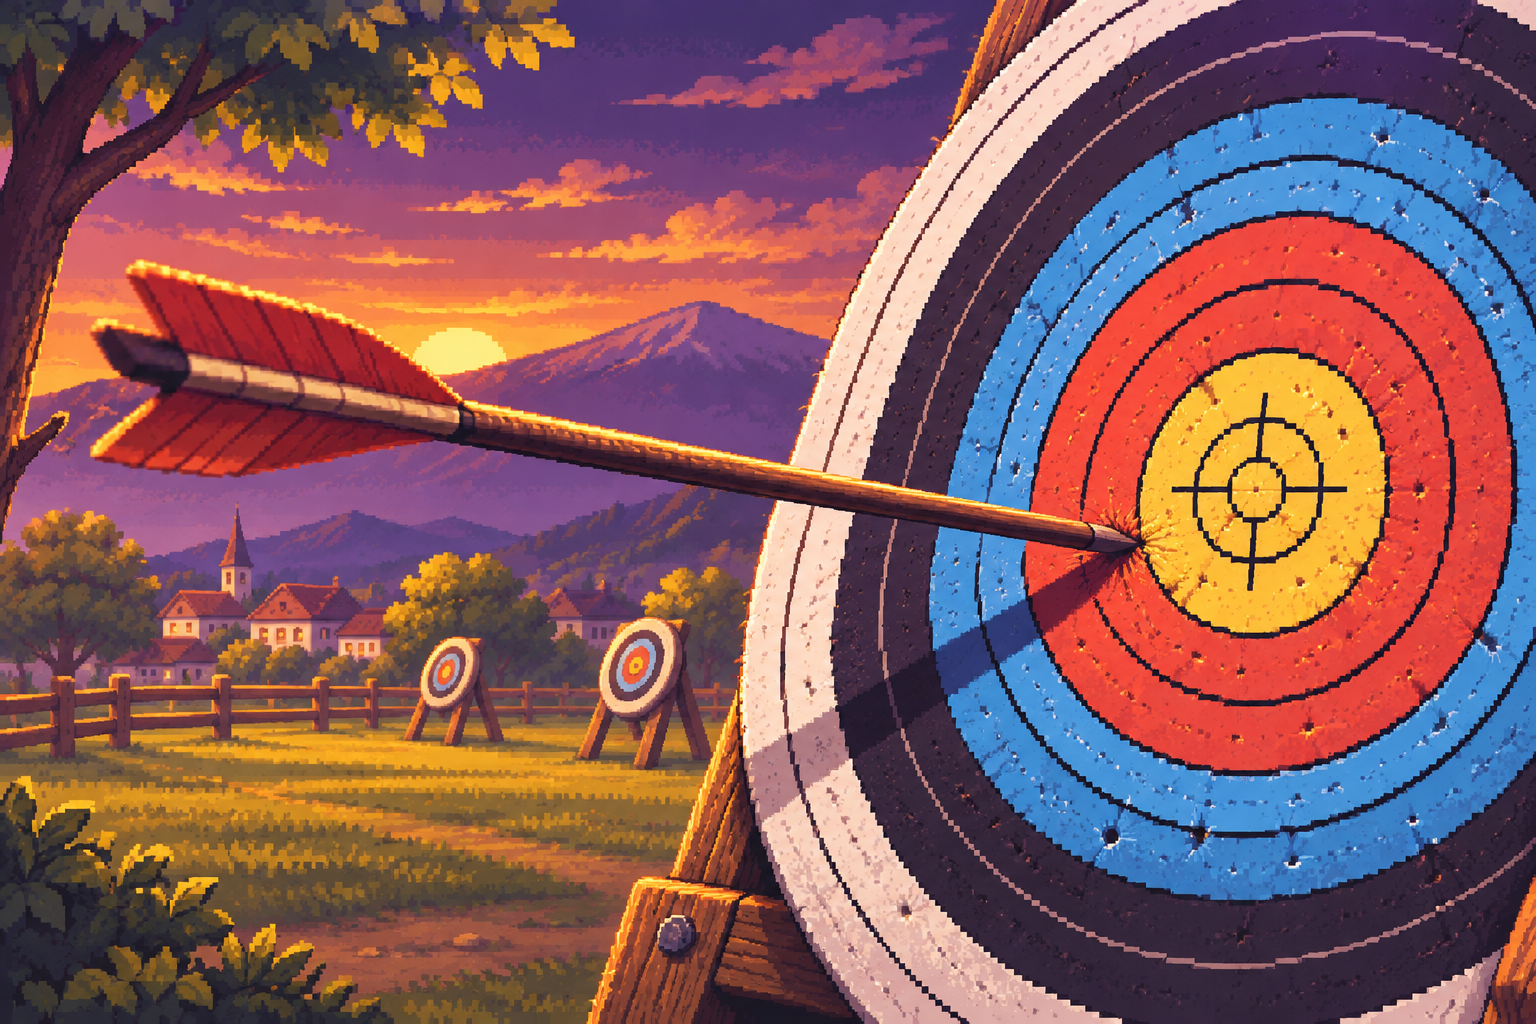
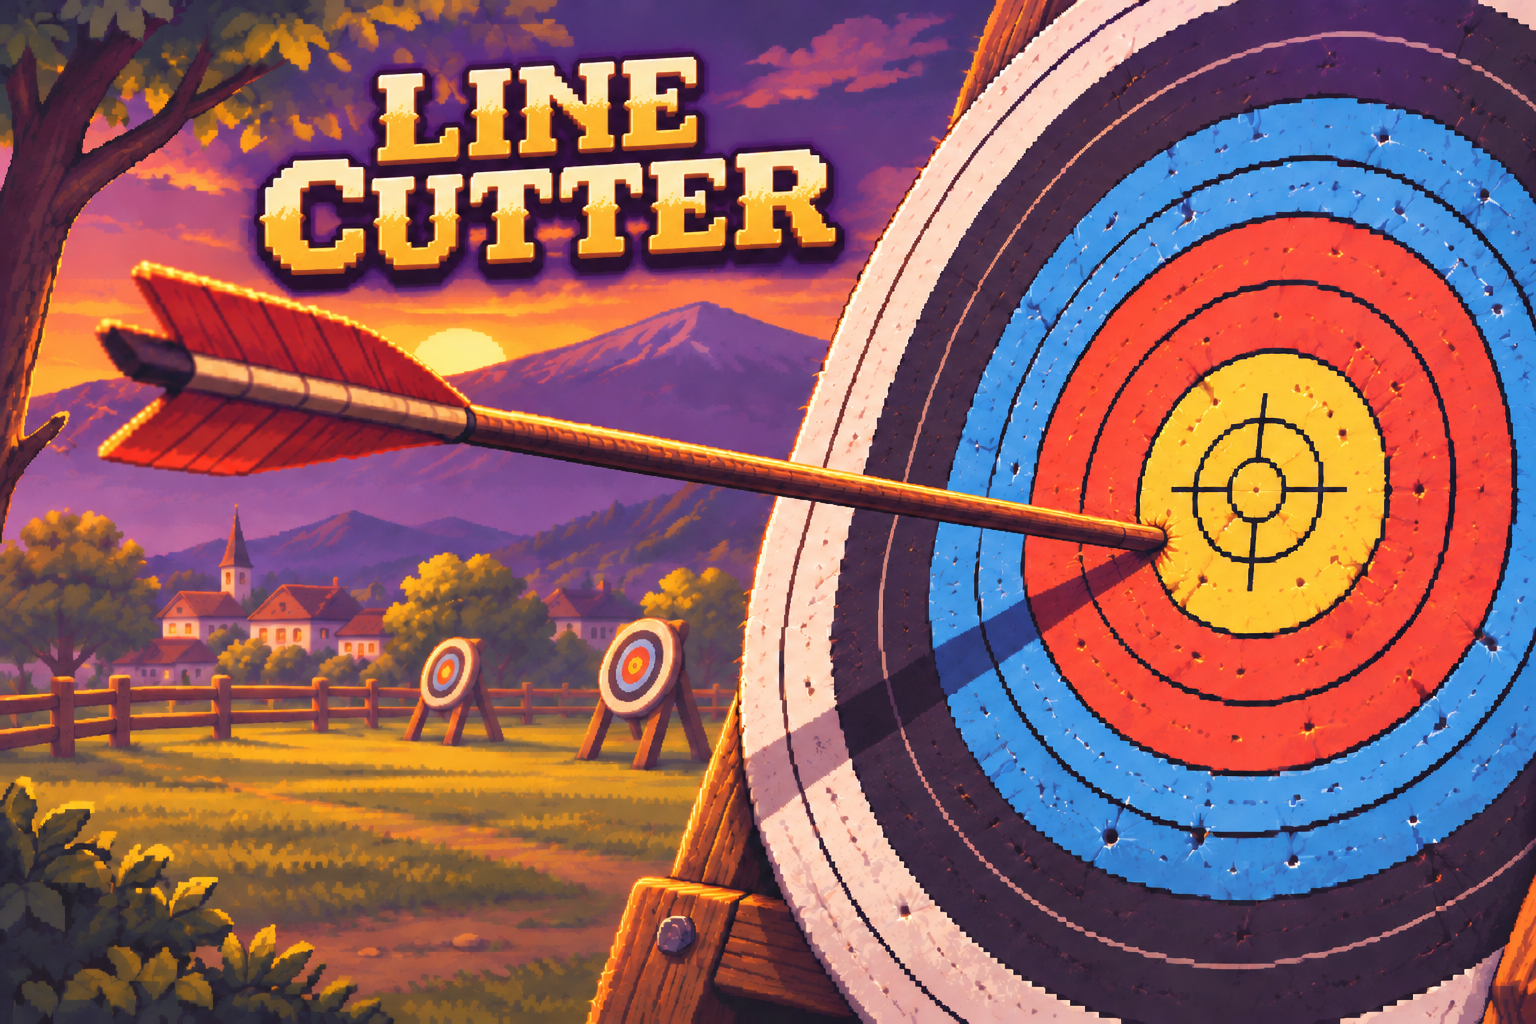
Launch games directly from library and refine Line Cutter cover

diff --git a/examples/line-cutter/play.html b/examples/line-cutter/play.html
@@ -56,7 +56,7 @@ function picker() {
   if (!game) return;
   host.dispose();
   // Returning via navigation releases the game's AudioContext and keeps its localStorage saves.
-  location.href = './index.html';
+  location.href = '/';
 }
 const platform = HandheldPlatform.createPlatform(window.HandheldPlatformOptions);
 host = HandheldSDK.createGameHost({platform, gameId:'line-cutter',

diff --git a/vm.py b/vm.py
@@ -139,8 +139,8 @@ def build_example():
     for source in sorted((HERE / 'runtime/core').iterdir()):
         if source.is_file() and source.suffix in {'.js', '.css'}:
             files['core/' + source.name] = source.read_bytes()
-    metadata = dict(schema_version=1, id='line-cutter', version='0.1.13',
-        runtime='web', entrypoint='index.html', artwork='cover.png',
+    metadata = dict(schema_version=1, id='line-cutter', version='0.1.14',
+        runtime='web', entrypoint='play.html', artwork='cover.png',
         capabilities=['canvas2d', 'web-audio', 'local-storage', 'gamepad', 'video'],
         provenance={'repository': manifest['repository'], 'commit': manifest['commit'],
                     'external_assets': [asset for asset in manifest['assets'] if 'url' in asset]},
@@ -152,7 +152,7 @@ def build_example():
     packages.validate_manifest(metadata)
     files['manifest.json'] = (json.dumps(metadata, sort_keys=True, indent=2) + '\n').encode()
     STATE.mkdir(parents=True, exist_ok=True)
-    destination = STATE / 'line-cutter-0.1.13.game.zip'
+    destination = STATE / 'line-cutter-0.1.14.game.zip'
     with zipfile.ZipFile(destination, 'w', compression=zipfile.ZIP_DEFLATED) as archive:
         for name, content in sorted(files.items()):
             entry = zipfile.ZipInfo(name, (1980, 1, 1, 0, 0, 0))

diff --git a/tests/test_game_dependency.py b/tests/test_game_dependency.py
@@ -78,7 +78,7 @@ class GameDependencyTests(unittest.TestCase):
         with zipfile.ZipFile(package) as archive:
             self.assertEqual(archive.read('trailer.mp4'), trailer)
             metadata = json.loads(archive.read('manifest.json'))
-            self.assertEqual(metadata['version'], '0.1.13')
+            self.assertEqual(metadata['version'], '0.1.14')
             self.assertEqual(metadata['files']['trailer.mp4'], asset['sha256'])
             self.assertEqual(metadata['attract'], 'trailer.mp4')
             self.assertIn(b'trailer-handheld.webm', archive.read('index.html'))
@@ -125,6 +125,7 @@ class GameDependencyTests(unittest.TestCase):
             self.assertEqual(archive.read('line-cutter.js'), self.payload)
             self.assertIn('index.html', archive.namelist())
             self.assertIn('cover.png', archive.namelist())
+            self.assertEqual(json.loads(archive.read('manifest.json'))['entrypoint'], 'play.html')
             metadata = json.loads(archive.read('manifest.json'))
             for source in (vm.HERE / 'runtime/core').glob('*.js'):
                 name = 'core/' + source.name

diff --git a/tests/test_controller_navigation.py b/tests/test_controller_navigation.py
@@ -56,7 +56,7 @@ async function check(file,held,expected){
   await check('examples/line-cutter/index.html',[0],'play.html');
   await check('examples/line-cutter/index.html',[4,5],'/');
   await check('examples/line-cutter/play.html',[0],'press');
-  await check('examples/line-cutter/play.html',[4,5],'./index.html');
+  await check('examples/line-cutter/play.html',[4,5],'/');
 })().catch(e=>{console.error(e);process.exitCode=1});
 '''
         result = subprocess.run(['node', '-e', harness], cwd=ROOT, text=True,

diff --git a/README.md b/README.md
@@ -13,7 +13,7 @@ See `AGENTS.md`.
 
 Line Cutter is an unchanged **technical test payload**, not the product design
 or intended audience. Its internal written menus are not precedent. Its new
-package cover, title/start controls and play affordance use no words. The attract
+package title/start controls and play affordance use no words. The cover title is an explicit requested exception. The attract
 loop is the **actual 46.6-second gameplay trailer used on david.app**, played
 muted from the installed package. Original game text inside this test footage
 is not precedent for child-facing games. No reading is required to start or exit.
@@ -25,16 +25,16 @@ OS and games now have independent lifecycles:
 ```text
 /opt/handheld/runtime/                     OS launcher, server, installer
 /var/lib/handheld/games/line-cutter/
-  releases/0.1.13/                          complete installed package
+  releases/0.1.14/                          complete installed package
     manifest.json                         identity/version/integrity inventory
-    cover.png                             wordless game-inspired cover art
+    cover.png                             game-inspired cover art (title requested)
     index.html                            wordless controls + recorded gameplay trailer
     play.html                             game-owned browser/input adapter
     line-cutter.js                        unchanged upstream game
     title-loop.mp3
     match-loop.mp3
     trailer-handheld.webm                 recorded gameplay, local/offline
-  current -> releases/0.1.13                atomically selected active release
+  current -> releases/0.1.14                atomically selected active release
 ```
 
 `GET /library` discovers installed manifests, never an upstream repo or catalog.
@@ -67,7 +67,7 @@ From this repo on the prepared development host:
 ./vm.py fetch-games
 ./vm.py sync
 ./vm.py build-example
-./vm.py install-game /mnt/data/vms/handheld-os/line-cutter-0.1.13.game.zip
+./vm.py install-game /mnt/data/vms/handheld-os/line-cutter-0.1.14.game.zip
 ./vm.py view
 ```
 
@@ -94,9 +94,9 @@ from the generic launcher. Future games can supply the same package contract.
 
 ### Controls and saves
 
-Library: arrows/D-pad choose; A/Enter opens the selected package. Its trailer/title: A/Enter plays; B/Escape returns to the library. Gameplay: Z/Space=A, X=B,
+Library: arrows/D-pad choose; A/Enter opens the selected game's detail preview. Play launches the game directly, without another trailer screen; B/Escape exits the game to the library. Gameplay: Z/Space=A, X=B,
 arrows=D-pad, Enter/P=Start, M/right Shift=Select. Escape or L1+R1 returns to the
-package title. Standard Gamepad API support still needs real-device mapping tests.
+library. Standard Gamepad API support still needs real-device mapping tests.
 
 The 240×160 surfaces display at 480×320, centered on the 640×480 output.
 Persistent saves remain in the existing guest user's WebKit profile, outside
@@ -283,7 +283,7 @@ npm run desktop:build
 
 The Linux x64 folder is a self-contained local distribution (runtime and games
 included). Add its `HandheldHub` executable as a non-Steam game to open one
-fullscreen hub. Steam account integration, Steam Cloud, achievements, store
+fullscreen hub. In Steam, use **Games → Add a Non-Steam Game → Browse**, select that executable, then **Properties → Controller → Enable Steam Input** and the **Gamepad** template. Leave forced compatibility/Proton disabled for this native Linux build; keep the entire distribution folder intact. Steam account integration, Steam Cloud, achievements, store
 publishing and Steam Deck verification are **not** implemented or claimed.
 Windows/macOS packaging and physical controller behavior remain unverified.
 Standard keyboard/Gamepad API/pictorial controls are the shared implementations.
@@ -351,7 +351,7 @@ Create an offline example catalog and manage a disposable desktop profile:
 
 ```sh
 ./vm.py build-example
-uv run python -m runtime.catalog create /mnt/data/vms/handheld-os/line-cutter-0.1.13.game.zip --output .cache/catalog/catalog.json
+uv run python -m runtime.catalog create /mnt/data/vms/handheld-os/line-cutter-0.1.14.game.zip --output .cache/catalog/catalog.json
 uv run python -m runtime.catalog --developer-local list "file://$PWD/.cache/catalog/catalog.json"
 uv run python -m runtime.catalog --developer-local --root .cache/desktop-profile/games install "file://$PWD/.cache/catalog/catalog.json" line-cutter
 HUB_USER_DATA="$PWD/.cache/desktop-profile" npm run desktop:start
@@ -423,4 +423,4 @@ unfocused window.
 
 The Line Cutter cover is ImageGen-created pixel-art key art, based on the actual
 gameplay trailer palette and archery theme. It replaces the generic SVG target;
-the cover contains no words and is not represented as a gameplay screenshot.
+the cover includes the explicitly requested LINE CUTTER title, with the arrowhead fully buried in the target, and is not represented as a gameplay screenshot. The earlier wordless version is preserved as `cover-wordless.png`.
